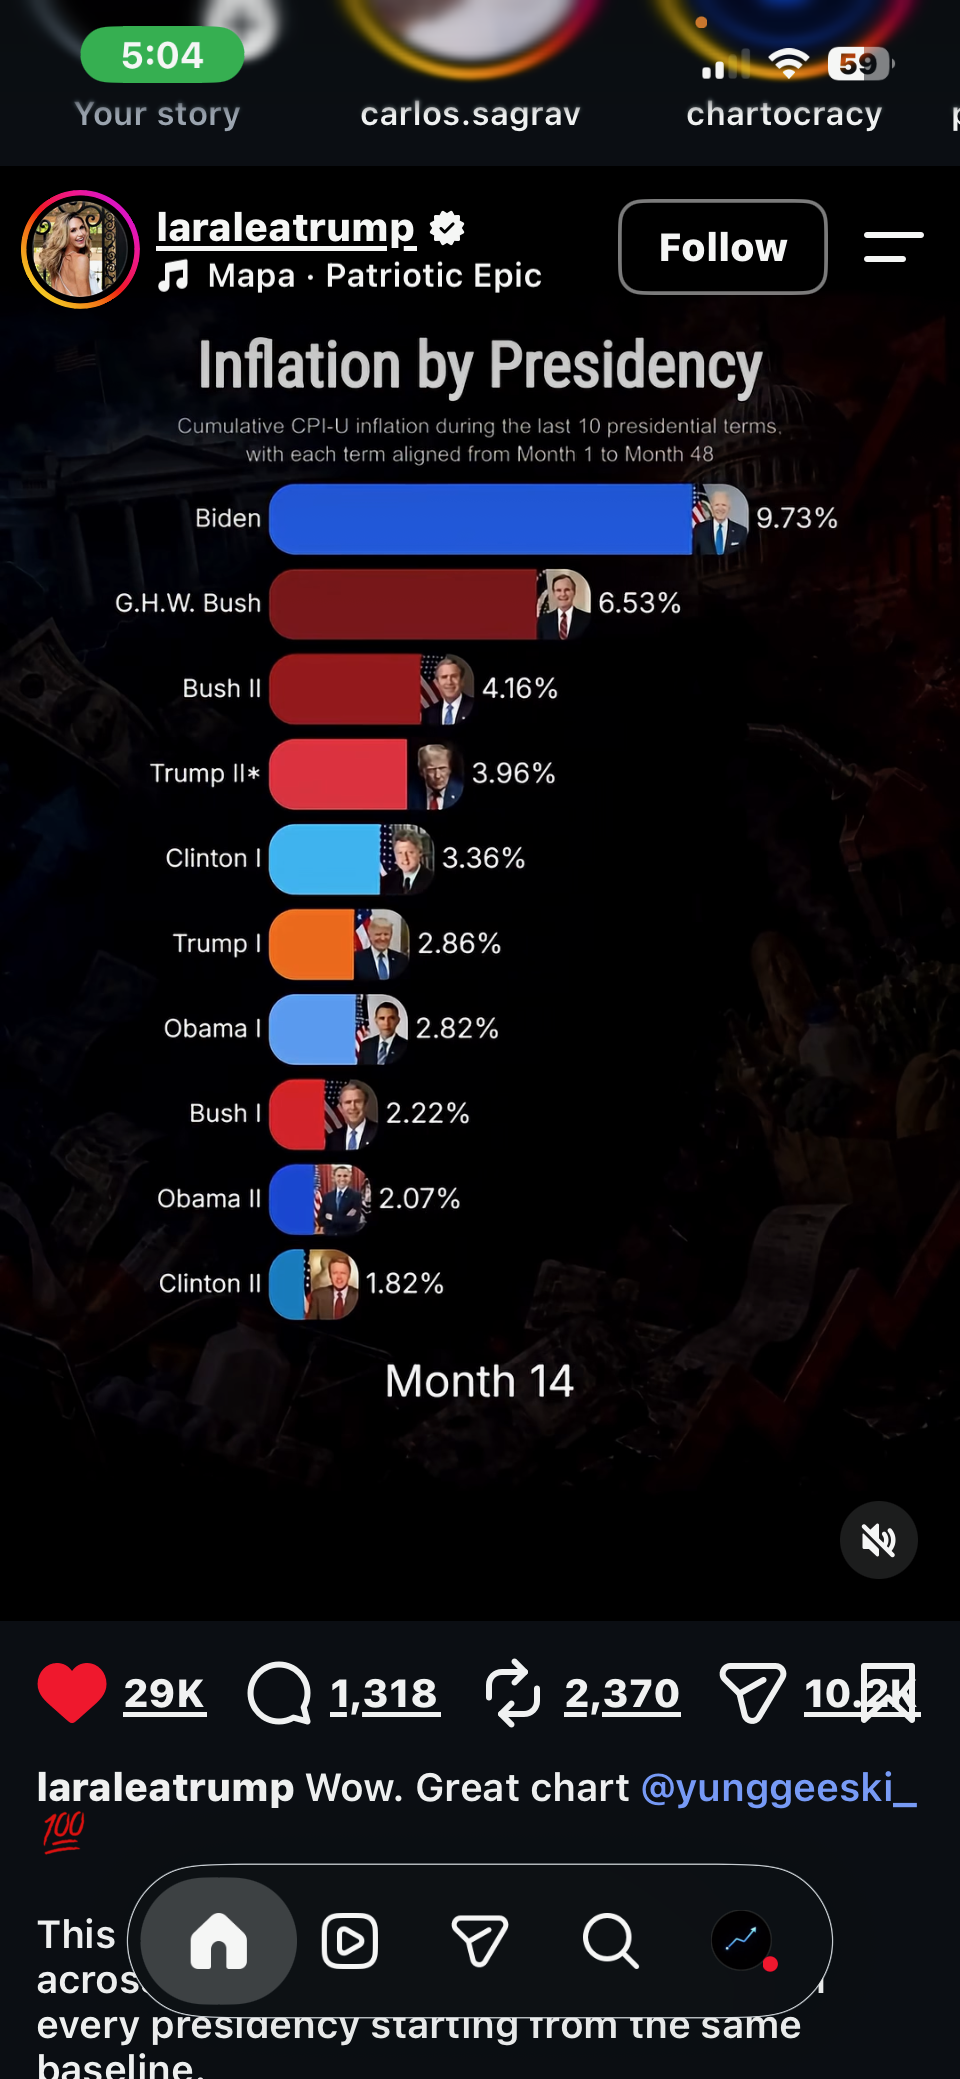
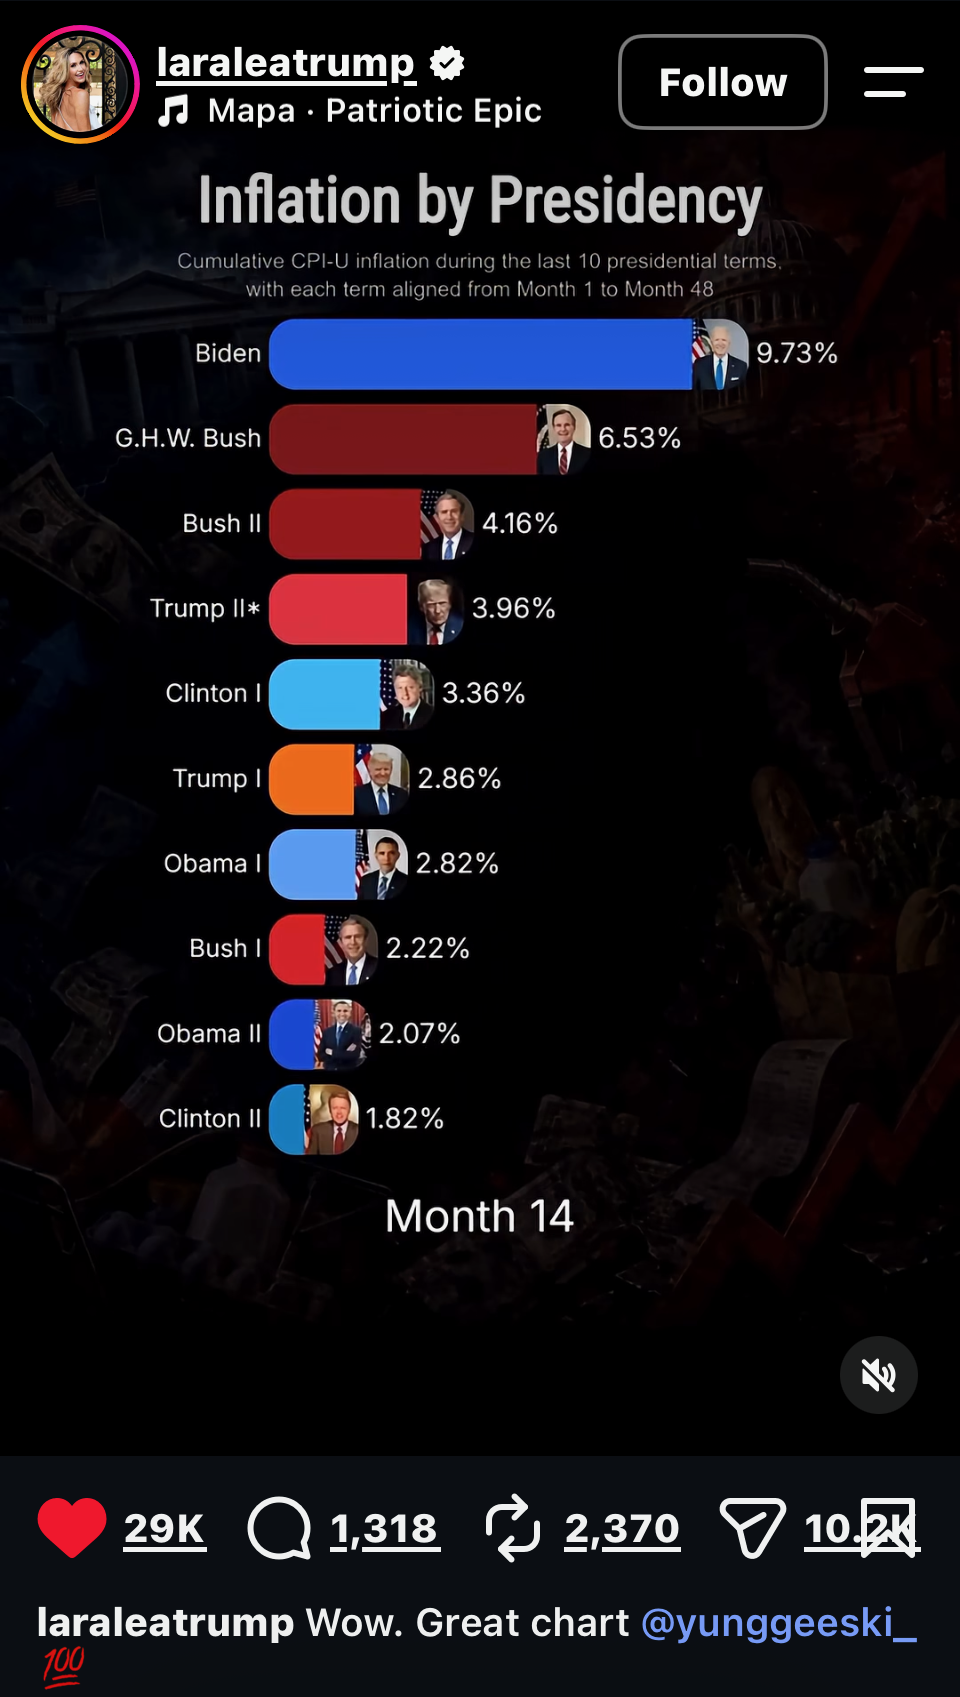
fix(course): use cropped screenshots, retune card ratio
Swaps in the Instagram captures with the phone chrome (status bar, nav
bar) trimmed off, and follows the consequences of that edit.

- Lara Trump is now 960x1697 and Mandy Patinkin 960x1517, down from
  960x2079. Both entries carry their new width/height; the card and the
  modal size from those, so leaving them stale would have distorted both
  images.
- CARD_ASPECT moves from 960/2079 to 960/1697, the new tallest source.
  Left at the old value every screenshot would have letterboxed against
  a box no image could fill, rendering all three smaller than needed.
  Cards also come out ~130px shorter as a result.
- The cropped files are markedly lighter: Lara 2.8 MB -> 861 KB, Mandy
  1.1 MB -> 403 KB.
- README records the new sizes, and notes both that CARD_ASPECT tracks
  the tallest entry and that phone chrome should be cropped before
  committing, since it adds height without adding proof.

diff --git a/components/SocialProofSection.tsx b/components/SocialProofSection.tsx
@@ -16,12 +16,14 @@ import {
 } from "@/components/ui/dialog";
 
 /**
- * The card box is the tallest source ratio (the phone captures, 960×2079) and
- * images are `object-contain`, so every screenshot is shown whole — nothing is
- * cropped. The shorter desktop capture letterboxes against the black backdrop,
- * which is near-invisible given the screenshots are themselves dark.
+ * The card box is the tallest source ratio (Lara Trump's, 960×1697) and images
+ * are `object-contain`, so every screenshot is shown whole — nothing is
+ * cropped. Shorter captures letterbox against the black backdrop, which is
+ * near-invisible given the screenshots are themselves dark. Keep this in sync
+ * with the tallest entry in SOCIAL_PROOF_REPOSTS: set it shorter and that
+ * screenshot shrinks to fit; set it taller and all three gain dead space.
  */
-const CARD_ASPECT = "aspect-[960/2079]";
+const CARD_ASPECT = "aspect-[960/1697]";
 
 /**
  * One repost: the complete screenshot, which opens larger on click, plus the

diff --git a/lib/socialProof.ts b/lib/socialProof.ts
@@ -52,7 +52,7 @@ export const SOCIAL_PROOF_REPOSTS: SocialProofRepost[] = [
     quote: "Wow. Great chart @yunggeeski_ 💯",
     screenshot: "/images/social-proof/lara-trump.png",
     width: 960,
-    height: 2079,
+    height: 1697,
     alt: "Instagram post by laraleatrump showing the Inflation by Presidency chart, captioned “Wow. Great chart @yunggeeski_”",
   },
   {
@@ -81,7 +81,7 @@ export const SOCIAL_PROOF_REPOSTS: SocialProofRepost[] = [
     action: "Reposted with credit",
     screenshot: "/images/social-proof/mandy-patinkin.png",
     width: 960,
-    height: 2079,
+    height: 1517,
     alt: "Instagram reel by mandypatinkin reposting the “Which Political Party Grew the Debt More?” chart from @yunggeeski_",
   },
 ];

diff --git a/public/images/social-proof/README.md b/public/images/social-proof/README.md
@@ -4,9 +4,9 @@ Repost screenshots shown in the "Social Proof" section on the home page.
 
 Expected files (referenced from `lib/socialProof.ts`):
 
-- `lara-trump.png` — Instagram post by @laraleatrump — 960×2079
+- `lara-trump.png` — Instagram post by @laraleatrump — 960×1697
 - `donald-trump.png` — Truth Social repost by @realDonaldTrump — 877×1546
-- `mandy-patinkin.png` — Instagram reel by @mandypatinkin — 960×2079
+- `mandy-patinkin.png` — Instagram reel by @mandypatinkin — 960×1517
 
 Notes:
 
@@ -17,9 +17,13 @@ Notes:
   placeholder showing the chart title; drop the PNG in at the path above and it
   swaps itself in with no code change.
 - **Screenshots are shown whole — nothing is cropped.** The card box is the
-  tallest source ratio (960×2079) and images are `object-contain`, so a shorter
-  capture letterboxes against the black backdrop rather than losing content.
-  Clicking a card opens the screenshot larger in a modal.
+  tallest source ratio and images are `object-contain`, so a shorter capture
+  letterboxes against the black backdrop rather than losing content. Clicking a
+  card opens the screenshot larger in a modal.
+- If you add a screenshot taller than the current tallest, update `CARD_ASPECT`
+  in `components/SocialProofSection.tsx` to match, or it will be shrunk to fit.
+- Crop phone chrome (status bar, nav bar) out before committing — it adds height
+  that pushes every card taller without adding any proof.
 - Because of that, a much wider screenshot would letterbox heavily and read as
   small. Prefer portrait captures at roughly phone proportions.
 - Served through `next/image`, so delivery is resized and converted to WebP
